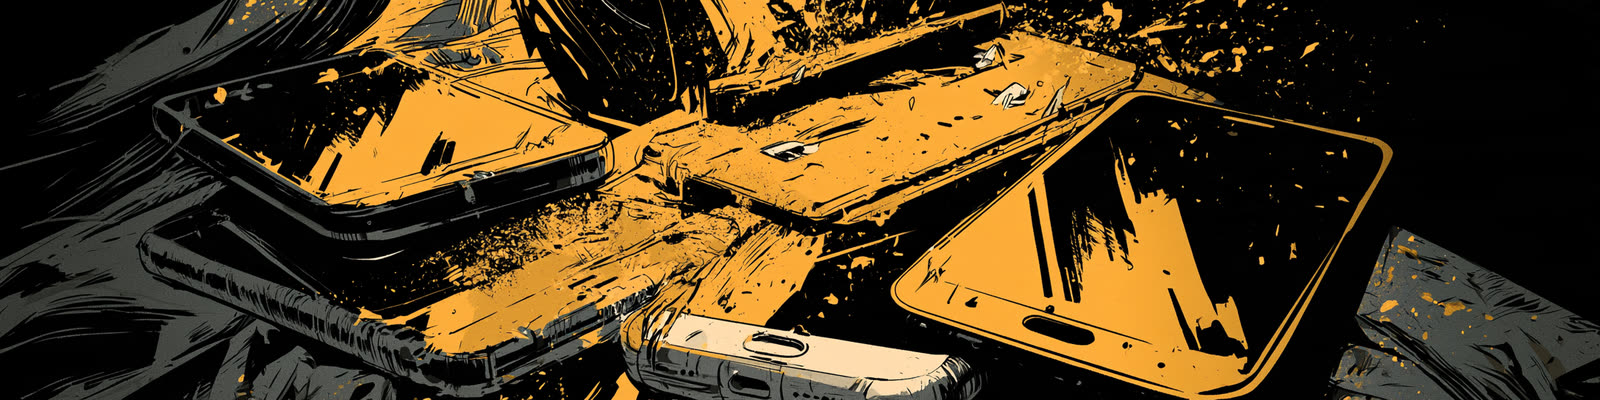
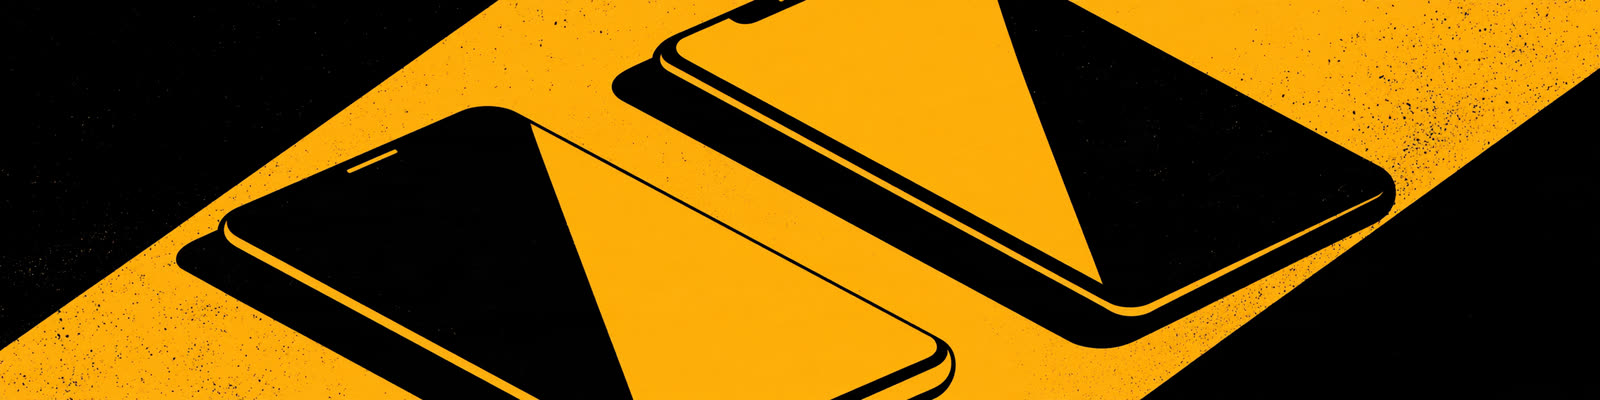
Ryddigere bilder for hemmelig app og IT-sikkerhet

diff --git a/index.html b/index.html
@@ -140,7 +140,7 @@
       <div><dt>Størrelse</dt><dd>204 000 linjer kode</dd></div>
       <div><dt>Jeg gjør</dt><dd>Alt</dd></div>
     </dl>
-    <img class="wide" src="media/app.jpg" alt="Abstrakte mobiltelefoner i gult og svart" loading="lazy" width="1600" height="400">
+    <img class="wide" src="media/app.jpg" alt="To mobiltelefoner side om side, i gult og svart" loading="lazy" width="1600" height="400">
     <div class="n">
       <div><b>180 000</b><span>linjer Swift i selve appen</span></div>
       <div><b>24 000</b><span>linjer serverkode</span></div>
@@ -164,7 +164,7 @@
 
   <section class="p">
     <h3>Operasjonell IT-sikkerhet for hacket familie</h3>
-    <img class="wide" src="media/sikkerhet.jpg" alt="Hengelås og skjold i gult og svart" loading="lazy" width="1600" height="400">
+    <img class="wide" src="media/sikkerhet.jpg" alt="Hengelås i gult og svart" loading="lazy" width="1600" height="400">
     <div class="s">
       <p>En bekjent kom til meg med en case hvor en venn av ham hadde fått noen av kontoene sine hacket, uhyggelige beskjeder, og var veldig bekymret for overvåkning og videre hacking.</p>
       <p>Jeg sjekket mange systemer og nettverk etter trusler, med stor hjelp av et system jeg bygget med Claude Code, med verktøy som LuLu og KnockKnock for å lage rapporter kjørt gjennom Claude Code, i tillegg til et eget verktøy jeg bygget ved navn ACHILLES.</p>
